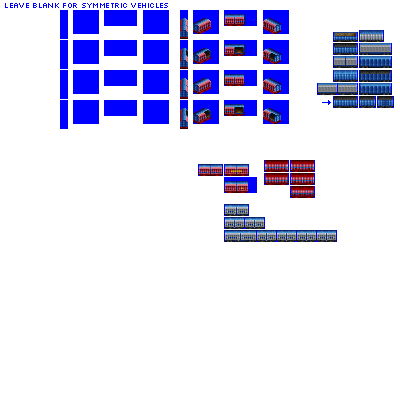
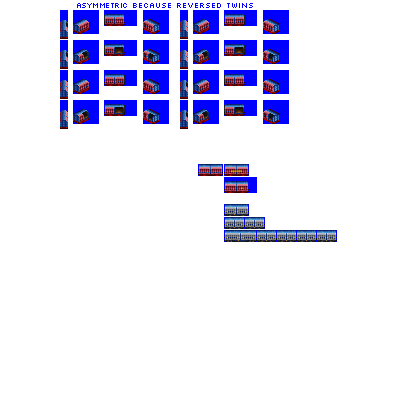
Change: Sliding Wall vans 5D and 6D complete

diff --git a/src/vehicles/sliding_wall_cars.py b/src/vehicles/sliding_wall_cars.py
@@ -55,16 +55,18 @@ def main():
                             base_numeric_id=5190,
                             gen=5,
                             subtype='D',
-                            sprites_complete=False)
+                            sprites_complete=True)
 
     consist.add_unit(type=FreightCar,
                      suppress_roof_sprite=True, # non-standard roof for this wagon
                      chassis='2_axle_1cc_filled_20px',
+                     symmetry_type='asymmetric',
                      spriterow_num=0)
 
     consist.add_unit(type=FreightCar,
                      suppress_roof_sprite=True, # non-standard roof for this wagon
                      chassis='2_axle_1cc_filled_20px',
+                     symmetry_type='asymmetric',
                      spriterow_num=2)
 
 
@@ -88,3 +90,24 @@ def main():
     consist.add_unit(type=FreightCar,
                      suppress_roof_sprite=True, # non-standard roof for this wagon
                      chassis='4_axle_1cc_filled_32px')
+
+
+    consist = SlidingWallCarConsist(roster_id='pony',
+                            base_numeric_id=5200,
+                            gen=6,
+                            subtype='D',
+                            sprites_complete=True)
+
+    consist.add_unit(type=FreightCar,
+                     suppress_roof_sprite=True, # non-standard roof for this wagon
+                     chassis='2_axle_1cc_filled_20px',
+                     symmetry_type='asymmetric',
+                     spriterow_num=0)
+
+    consist.add_unit(type=FreightCar,
+                     suppress_roof_sprite=True, # non-standard roof for this wagon
+                     chassis='2_axle_1cc_filled_20px',
+                     symmetry_type='asymmetric',
+                     spriterow_num=2)
+
+
